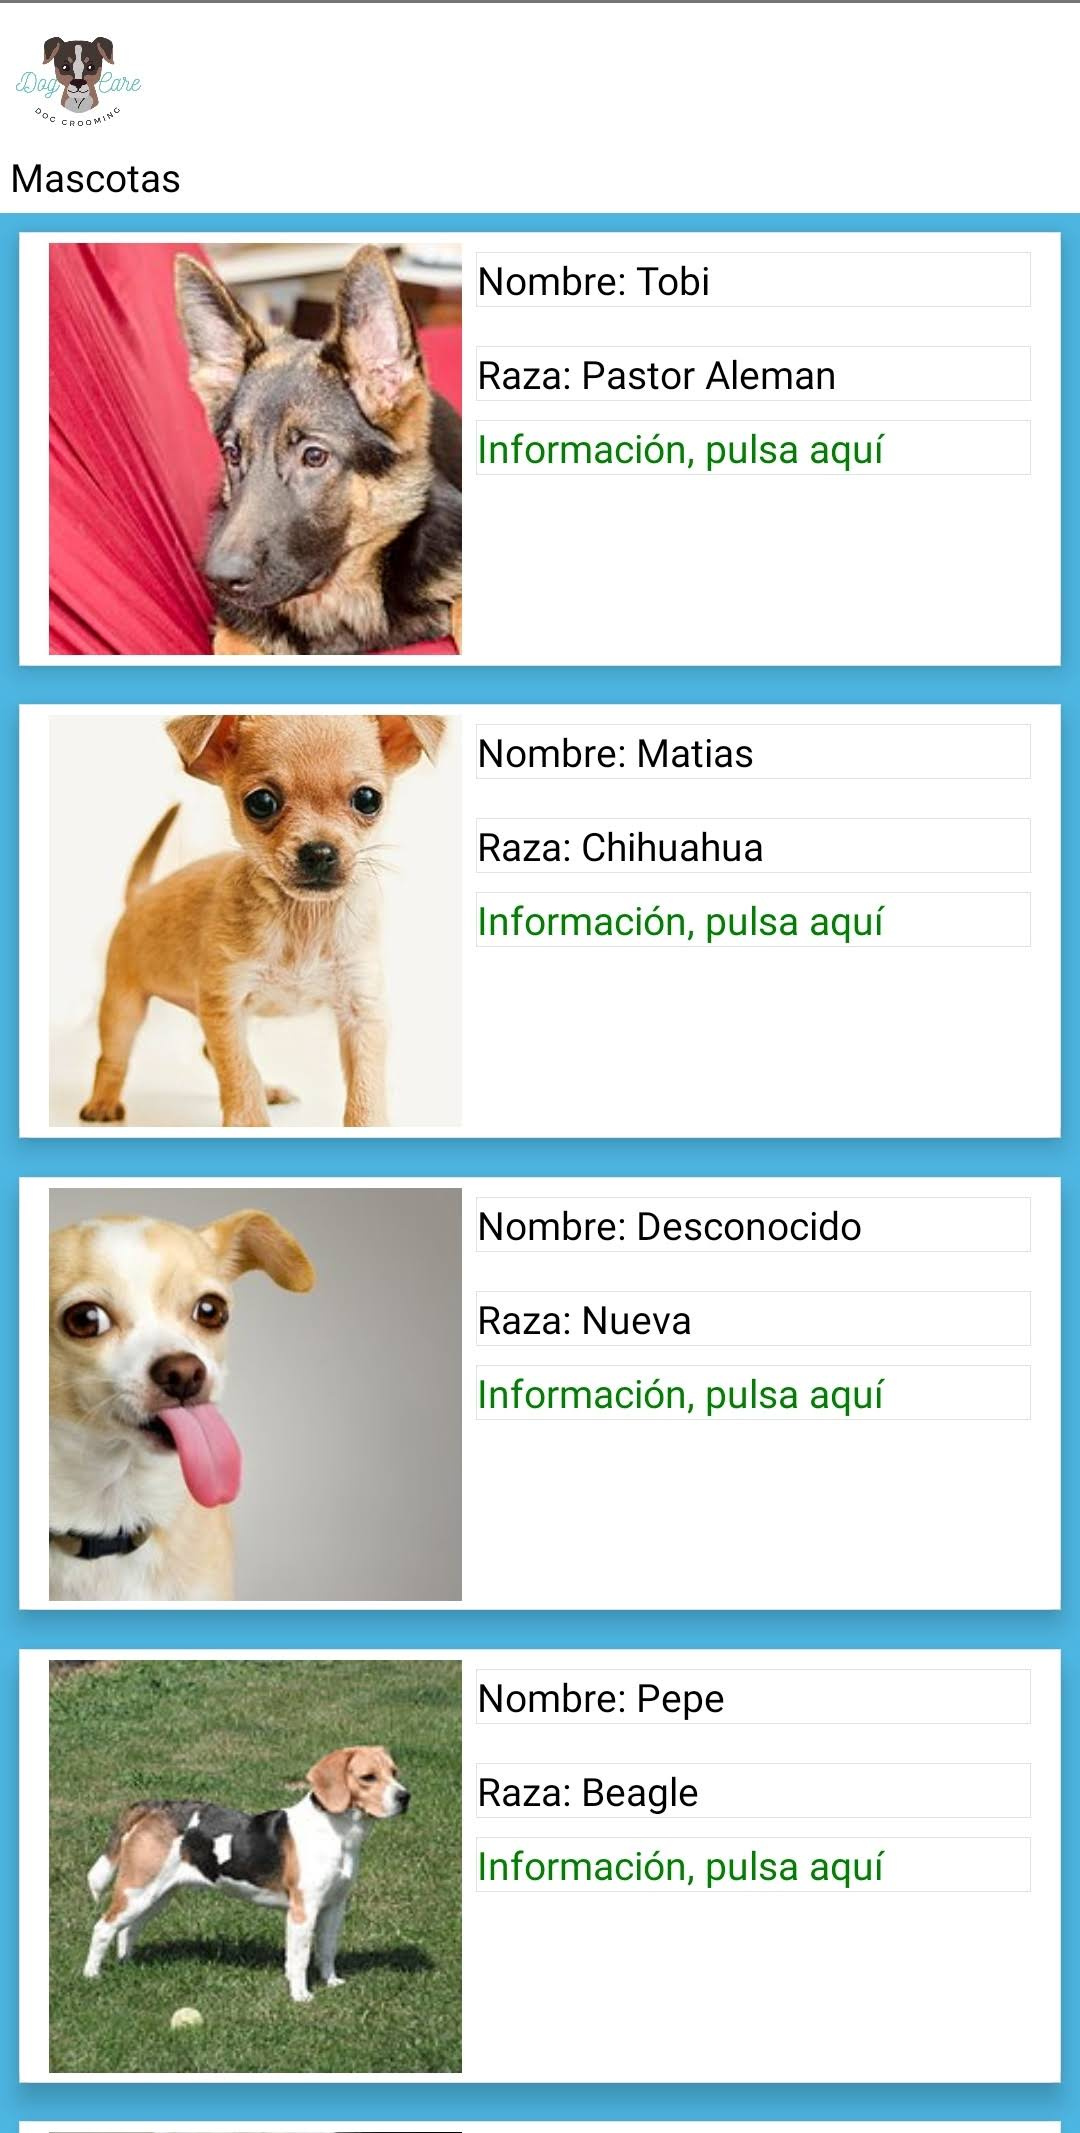
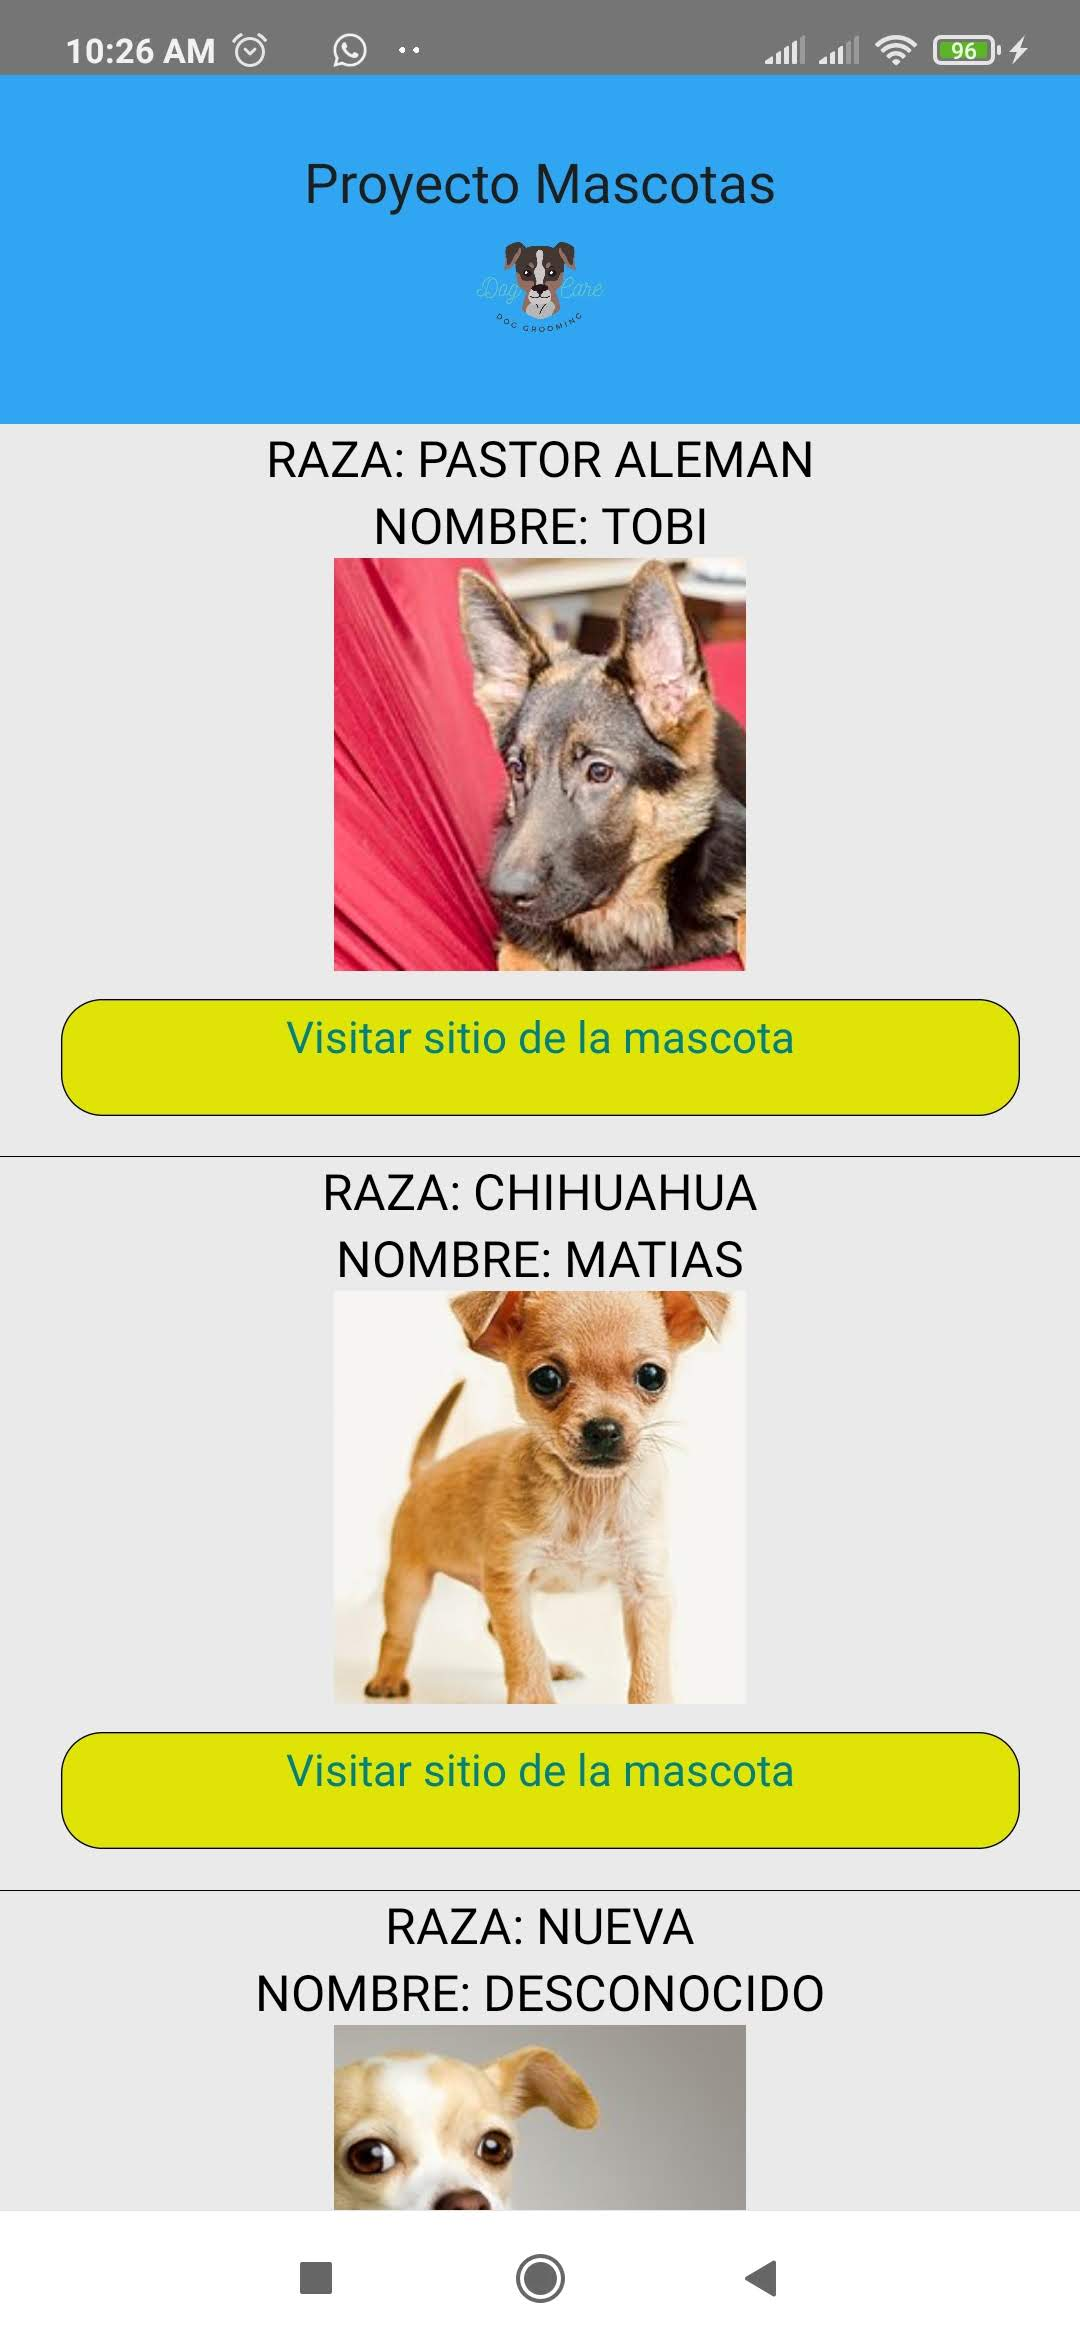
final

diff --git a/App.js b/App.js
@@ -6,73 +6,28 @@
  * @flow strict-local
  */
 
-import React, { useEffect } from 'react';
-import {
-  SafeAreaView,
-  StyleSheet,
-  ScrollView,
-  View,
-  Text,
-  StatusBar,
-} from 'react-native';
+//IMPORTAR COMPONENTES, LIBRERIAS REQUERIDAS
 
-import Cabecera from './src/components/Cabecera'
-import Tarjeta from './src/components/Tarjeta'
+import React from 'react';
+import { View } from 'react-native';
+import Header from './src/componentes/Header';
+import ListaMascotas from './src/componentes/ListaMascotas';
+//CUERPO DEL COMPONENTE
 
-const App: () => React$Node = () => {
-
-  const [mascotas, llenarMascotas] = React.useState([]);
-
-  const obtenerMascotas = async () => {
-    try {
-      // Se debe establecer la dirección ip de la máquina, al ejecutar solo con localhost generá error porque toma la ip del celular y no del equipo.
-      let response = await fetch('http://192.168.20.103:8080/WSRESTMASCOTAS/webresources/udenar.mascotas', {
-        // Se establece el tipo que se va a leer.
-        method: 'GET',
-        headers: {
-          Accept: 'application/json',
-          'Content-Type': 'application/json'
-        }
-      });
-      // Variable que será leída más adelante, esto en formato json.
-      let datosJson = await response.json();
-      // Se llena diréctamente el vector con mascotas.
-      llenarMascotas(datosJson);
-    } catch (error) {
-      console.error(error);
-    }
-  }
-
-  useEffect(() => {
-    obtenerMascotas();
-  }, [])
-
+const App = () => {
   return (
-    <SafeAreaView>
-      <StatusBar barStyle="light-content" />
-      <ScrollView contentInsetAdjustmentBehavior="automatic">
-        <View style={styles.body}>
-          <Cabecera />
-          {// se mapea cada valor de las mascotas y poder mostrar como una tarjeta.
-            mascotas.map((mascota, llave) =>
-              <Tarjeta
-                key={llave}
-                raza={mascota.raza}
-                imagen={mascota.imagen}
-                nombre={mascota.nombre}
-                informacion={mascota.informacion}
-              />
-            )}
+        <View style={styles.estiloContenedor}>
+          <Header titulo={'Proyecto Mascotas'}/>
+          <ListaMascotas/>
         </View>
-      </ScrollView>
-    </SafeAreaView>
   );
 };
 
-const styles = StyleSheet.create({
-  body: {
-    backgroundColor: "#4db6e2",
-  },
-});
-
+const styles={
+  estiloContenedor:{
+    flex:1,
+    backgroundColor: "#eaeaea"
+  }
+}
+//EXPORTAR EL COMPONENTE
 export default App;

diff --git a/src/componentes/DetalleMascota.js b/src/componentes/DetalleMascota.js
@@ -1,0 +1,51 @@
+import React from 'react';
+import { View, Text, Image, Linking } from 'react-native';
+import Item from './Item';
+import ItemSeccion from './ItemSeccion';
+import Button from './Button';
+
+// Información de la mascota en cada sección.
+const DetalleMascota = (props) => {
+    return (
+        <Item>
+            <ItemSeccion>
+                <View style={styles.estiloContenedor}>
+                    <Text style={styles.estiloTexto}>Raza: {props.mascotas.raza}</Text>
+                    <Text style={styles.estiloTexto}>Nombre: {props.mascotas.nombre}</Text>
+                </View>
+            </ItemSeccion>
+            <ItemSeccion>
+                <Image style={styles.estiloImagen}
+                    source={{
+                        uri: props.mascotas.imagen,
+                    }}
+                />
+            </ItemSeccion>
+            <ItemSeccion>
+                <Button botonPresionado={() => { Linking.openURL(props.mascotas.informacion); }} />
+            </ItemSeccion>
+        </Item>
+    );
+
+};
+
+// Estilos de la mascota.
+const styles = {
+    estiloContenedor: {
+        flexDirection: "column",
+        justifyContent: "space-between",
+        alignItems: "center"
+    },
+    estiloImagen: {
+        height: 150,
+        width: 150
+    },
+    estiloTexto: {
+        fontSize: 18,
+        fontWeight: '200',
+        textTransform: 'uppercase'
+    }
+
+}
+
+export default DetalleMascota;

diff --git a/src/componentes/ListaMascotas.js b/src/componentes/ListaMascotas.js
@@ -1,0 +1,38 @@
+import React, { Component } from 'react';
+import { View, Text, ScrollView } from 'react-native';
+import axios from 'axios';
+import DetalleMascota from './DetalleMascota';
+
+class ListaMascotas extends Component {
+    state = { listaMascotas: [] };
+
+    componentDidMount() {
+        // Obtener el json de la api, aquí se escribe la URL de la api, se debe escribir
+        // la ip del computador donde se está ejecutando el servicio, no localhost porque
+        // tomaría la ip del celular y se necesita la del computador.
+        axios.get("http://192.168.20.103:8080/WSRESTMASCOTAS/webresources/udenar.mascotas")
+            .then(response => {
+                // llenar el valor en listaMascotas
+                this.setState({ listaMascotas: response.data });
+            })
+            .catch(error => {
+                // Consola para errores.
+                console.log(error);
+            });
+
+    }
+    listaAMostrar = () => {
+        return this.state.listaMascotas.map(mascotas => {
+            // Exportar la lista.
+            return <DetalleMascota key={mascotas.id} mascotas={mascotas}></DetalleMascota>
+
+        })
+
+    };
+    render() {
+        // Esto se retornará en ListaMascotas.
+        return <ScrollView>{this.listaAMostrar()}</ScrollView>;
+    }
+}
+
+export default ListaMascotas;

diff --git a/src/componentes/Button.js b/src/componentes/Button.js
@@ -1,0 +1,37 @@
+import React from 'react';
+import { Text, TouchableOpacity } from 'react-native';
+
+// Boton que dará redirección a la información.
+const Button = (props) => {
+    return (
+        <TouchableOpacity onPress={props.botonPresionado} style={styles.estiloBoton}>
+            {/** Texto a visualizar en el botón */}
+            <Text style={styles.estiloTexto}>Visitar sitio de la mascota</Text>
+        </TouchableOpacity>
+    );
+};
+
+// Estilos para el botón.
+const styles = {
+    estiloTexto: {
+        fontSize: 16,
+        fontWeight: '400',
+        paddingBottom: 3,
+        color: '#008080'
+    },
+    estiloBoton: {
+        alignSelf: 'stretch',
+        backgroundColor: '#DFE306',
+        alignItems: 'center',
+        borderWidth: .5,
+        paddingTop: 2,
+        marginTop: 10,
+        marginLeft: 7,
+        marginRight: 7,
+        marginBotton: 15,
+        paddingBottom: 15,
+        borderRadius: 15,
+    }
+}
+
+export default Button;

diff --git a/src/componentes/Header.js b/src/componentes/Header.js
@@ -1,0 +1,37 @@
+import React from 'react';
+import { View, Text, Image } from 'react-native';
+
+// Navbar con logo y un tamaño fijo en los estilos.
+const Header = (props) => {
+
+    const { estiloTexto, estiloContenedor } = styles;
+
+    return (
+        <View style={estiloContenedor}>
+            <Text style={estiloTexto}>{props.titulo}</Text>
+            <Image
+                source={require('../logo.png')}
+                // Se carga un logo para el cabecera y se le dará un tamaño predeterminado.
+                style={{ width: 50, height: 50 }}
+            />
+        </View>
+    );
+};
+
+// Estilos en el header.
+const styles = {
+    estiloTexto: {
+        fontSize: 20,
+        color: "#1e1e1e"
+    },
+    estiloContenedor: {
+        borderRadius: 0,
+        borderWidth: 0,
+        backgroundColor: '#30A5F1',
+        alignItems: 'center',
+        paddingTop: 25,
+        paddingBottom: 25
+    }
+};
+
+export default Header;

diff --git a/src/componentes/ItemSeccion.js b/src/componentes/ItemSeccion.js
@@ -1,0 +1,18 @@
+import React from 'react';
+import {View, Text} from 'react-native';
+
+// Corresponde al contenido donde muestra información.
+const ItemSeccion = (props) =>{
+    return <View style={styles.estiloContenedor}>{props.children}</View>
+};
+
+const styles={
+    estiloContenedor:{
+        flexDirection:"column",
+        borderColor: "#686868",
+        paddingLeft: 15,
+        paddingRight: 15,
+        alignItems: "center"
+    }
+};
+export default ItemSeccion;

diff --git a/src/componentes/Item.js b/src/componentes/Item.js
@@ -1,0 +1,17 @@
+import React from 'react';
+import {View, Text} from 'react-native';
+
+// Exportar item, que corresponde a un contenedor grande de las tarjetas de la mascota.
+const Item = (props) =>{
+    return <View style={styles.estiloContenedor}>{props.children}</View>
+};
+
+// Poner estilos.
+const styles={
+    estiloContenedor:{
+        flexDirection:"column",
+        borderBottomWidth:.5,
+        paddingBottom: 15
+    }
+};
+export default Item;
